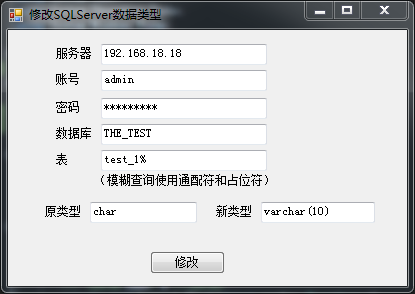
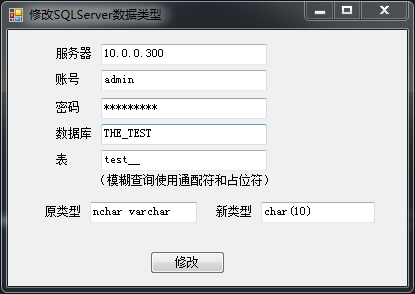
添加 多个类型修改成一个指定类型

diff --git a/Form1.cs b/Form1.cs
@@ -100,25 +100,40 @@ namespace WindowsFormsApp1
         private bool isExistsTable(SqlConnection conn, string table)
         {
             string sql = "select count(1) from sysobjects where name like '" + table + "'";
-            conn.Open();
-            SqlCommand cmd = new SqlCommand(sql, conn);
-            int result = Convert.ToInt32(cmd.ExecuteScalar());
-            conn.Close();
-            if (result == 0)
+            try
             {
-                MessageBox.Show("表不存在");
+                conn.Open();
+                SqlCommand cmd = new SqlCommand(sql, conn);
+                int result = Convert.ToInt32(cmd.ExecuteScalar());
+                if (result == 0)
+                {
+                    MessageBox.Show("表不存在");
+                    return false;
+                }
+                else
+                {
+                    return true;
+                }
+            }
+            catch
+            {
+                MessageBox.Show("连接失败，请检查输入");
                 return false;
             }
-            else
+            finally
             {
-                return true;
+                conn.Close();
             }
         }
 
+        /// <summary>
+        /// 执行修改流程
+        /// </summary>
+        /// <returns>成功或失败</returns>
         private bool execute()
         {
             try
-            {
+            {            
                 DataTable dt = getSqlTable(conn, inf.Table, inf.OldType, inf.NewType);
                 if (dt.Rows.Count > 0)
                 {
@@ -136,7 +151,7 @@ namespace WindowsFormsApp1
             }
             catch (Exception e)
             {
-                MessageBox.Show(string.Format("发生一个错误，原因如下\n",e.Message));
+                MessageBox.Show(string.Format("发生一个错误，原因如下\n",e.ToString()));
                 return false;
             }
         }
@@ -164,13 +179,23 @@ namespace WindowsFormsApp1
             //              "))) " +
             //              "order by d.name,a.name";
 
+            string[] tmpStrs = oldType.Split(' ');
+            if (tmpStrs.Length > 1)
+            {
+                for (int i = 0; i < tmpStrs.Length; i++)
+                {
+                    tmpStrs[i] = string.Format("'{0}'", tmpStrs[i]);
+                }
+                oldType = string.Join(",",tmpStrs);
+            }
+
             string sql = "SELECT 'alter table ['+d.name+ '] alter column [' + a.name + '] " + newType +
                           "' as my_sql " +
                           "FROM syscolumns a " +
                           "left join systypes b on a.xtype = b.xusertype " +
                           "inner join sysobjects d on a.id = d.id and d.xtype = 'U' and d.name like '" + tableStr + "' and d.name <> 'dtproperties'" +
                           "where " +
-                          "b.name = '" + oldType + "' " +
+                          "b.name in (" + oldType + ") " +
                           "and " +
                           "not exists(SELECT 1 FROM sysobjects where xtype = 'PK' and name in ( " +
                           "SELECT name FROM sysindexes WHERE indid in (" +
@@ -209,7 +234,7 @@ namespace WindowsFormsApp1
             catch (Exception e)
             {
                 transaction.Rollback();
-                MessageBox.Show(string.Format("修改失败，错误原因如下\n{0}", e.Message));
+                MessageBox.Show(string.Format("修改失败，错误原因如下\n{0}", e.ToString()));
                 return false;
             }
             finally
